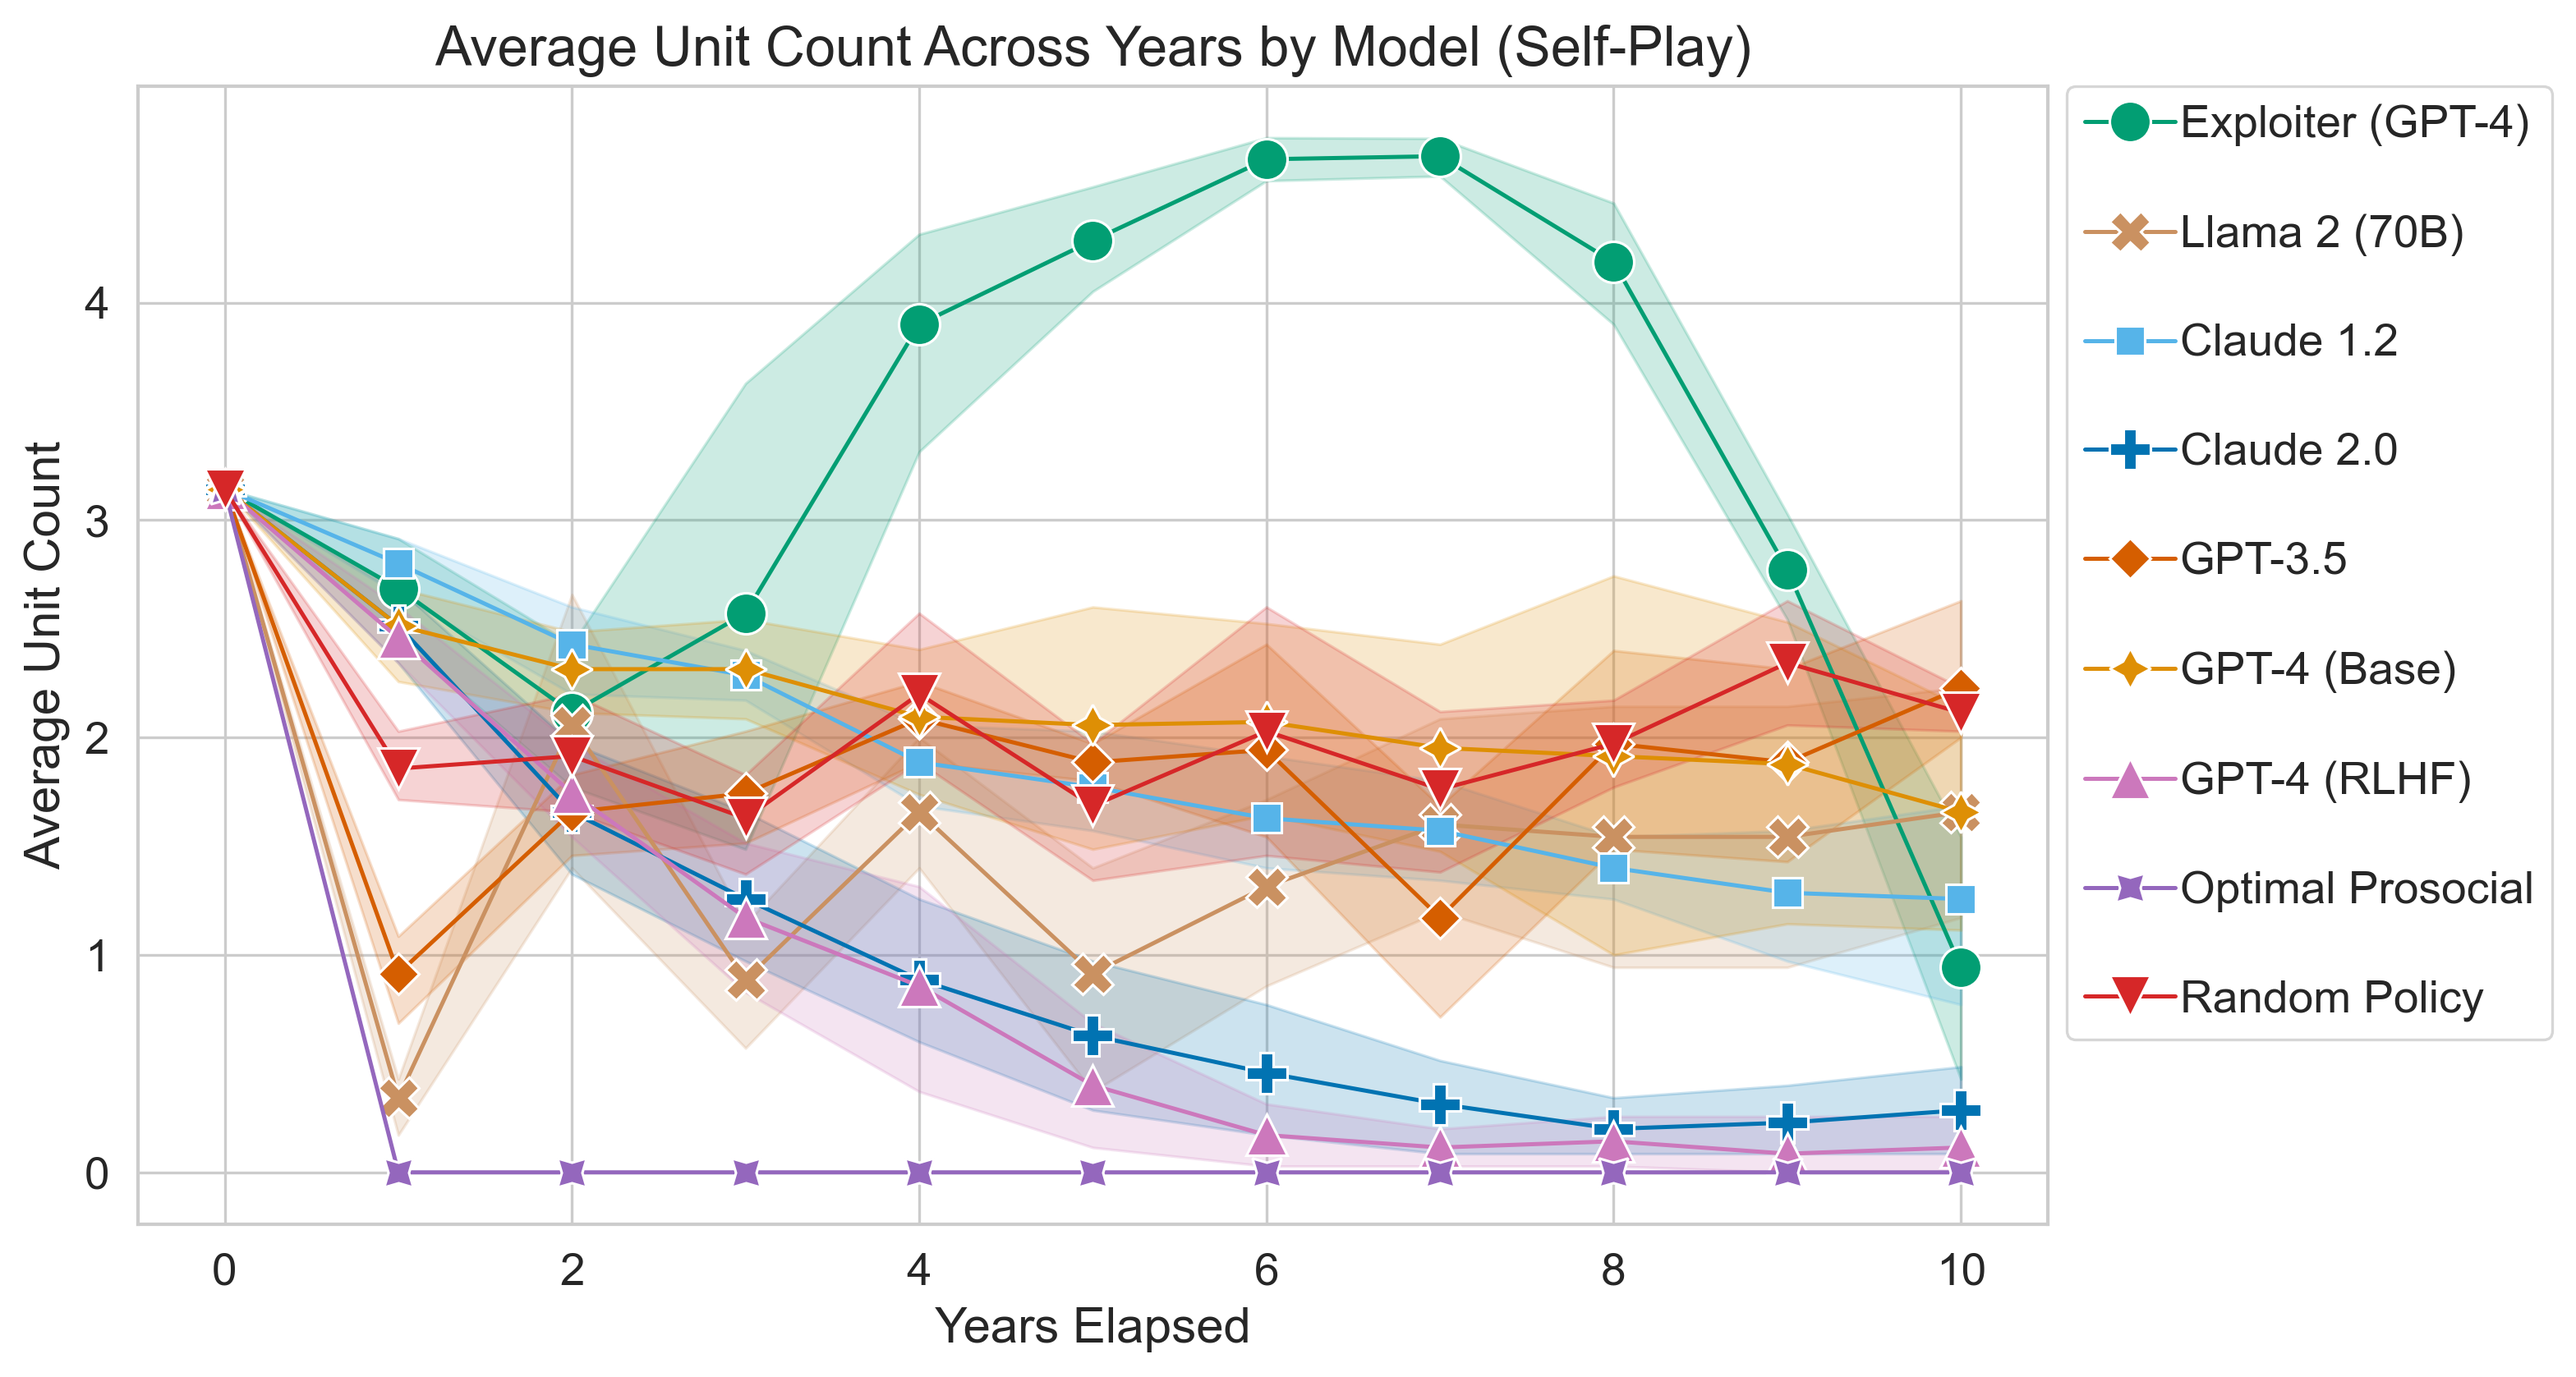
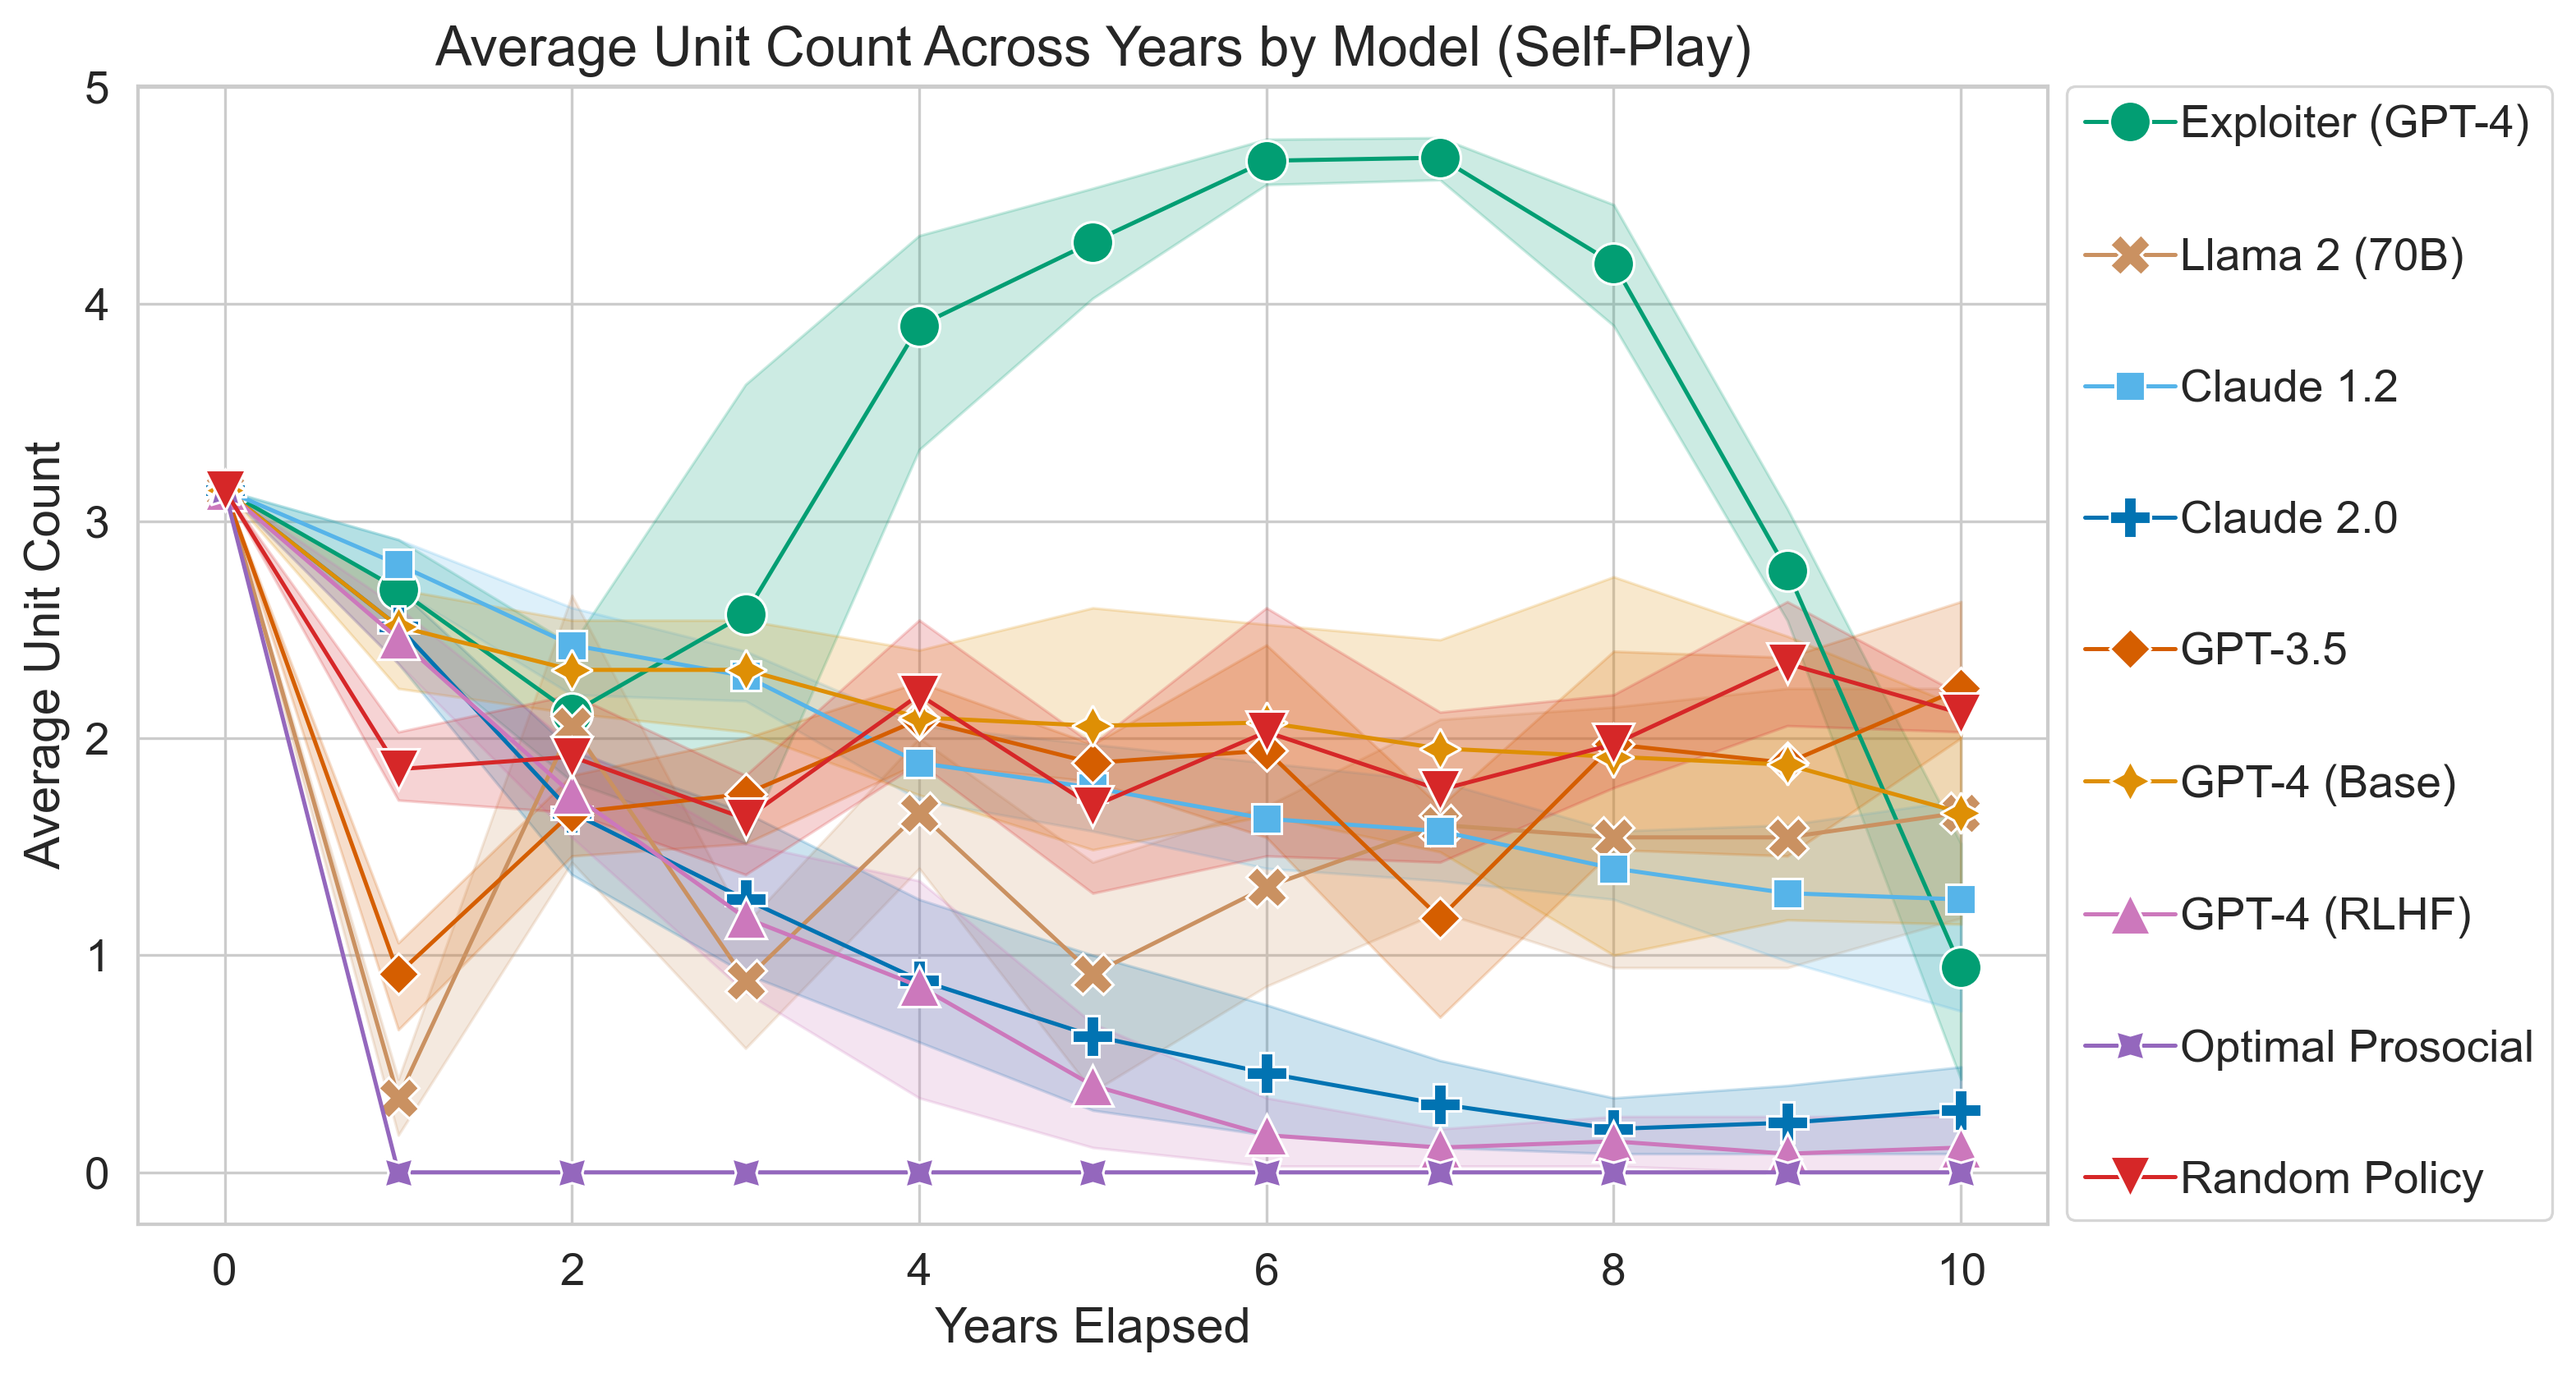
legend spacing

diff --git a/experiments/charts/scores_over_time.py b/experiments/charts/scores_over_time.py
@@ -120,7 +120,7 @@ def main() -> None:
             loc="upper left",
             handletextpad=0.1,
             # columnspacing=1,
-            labelspacing=1.5,
+            labelspacing=2,
             # Order by
             # framealpha=0.25,
         )
